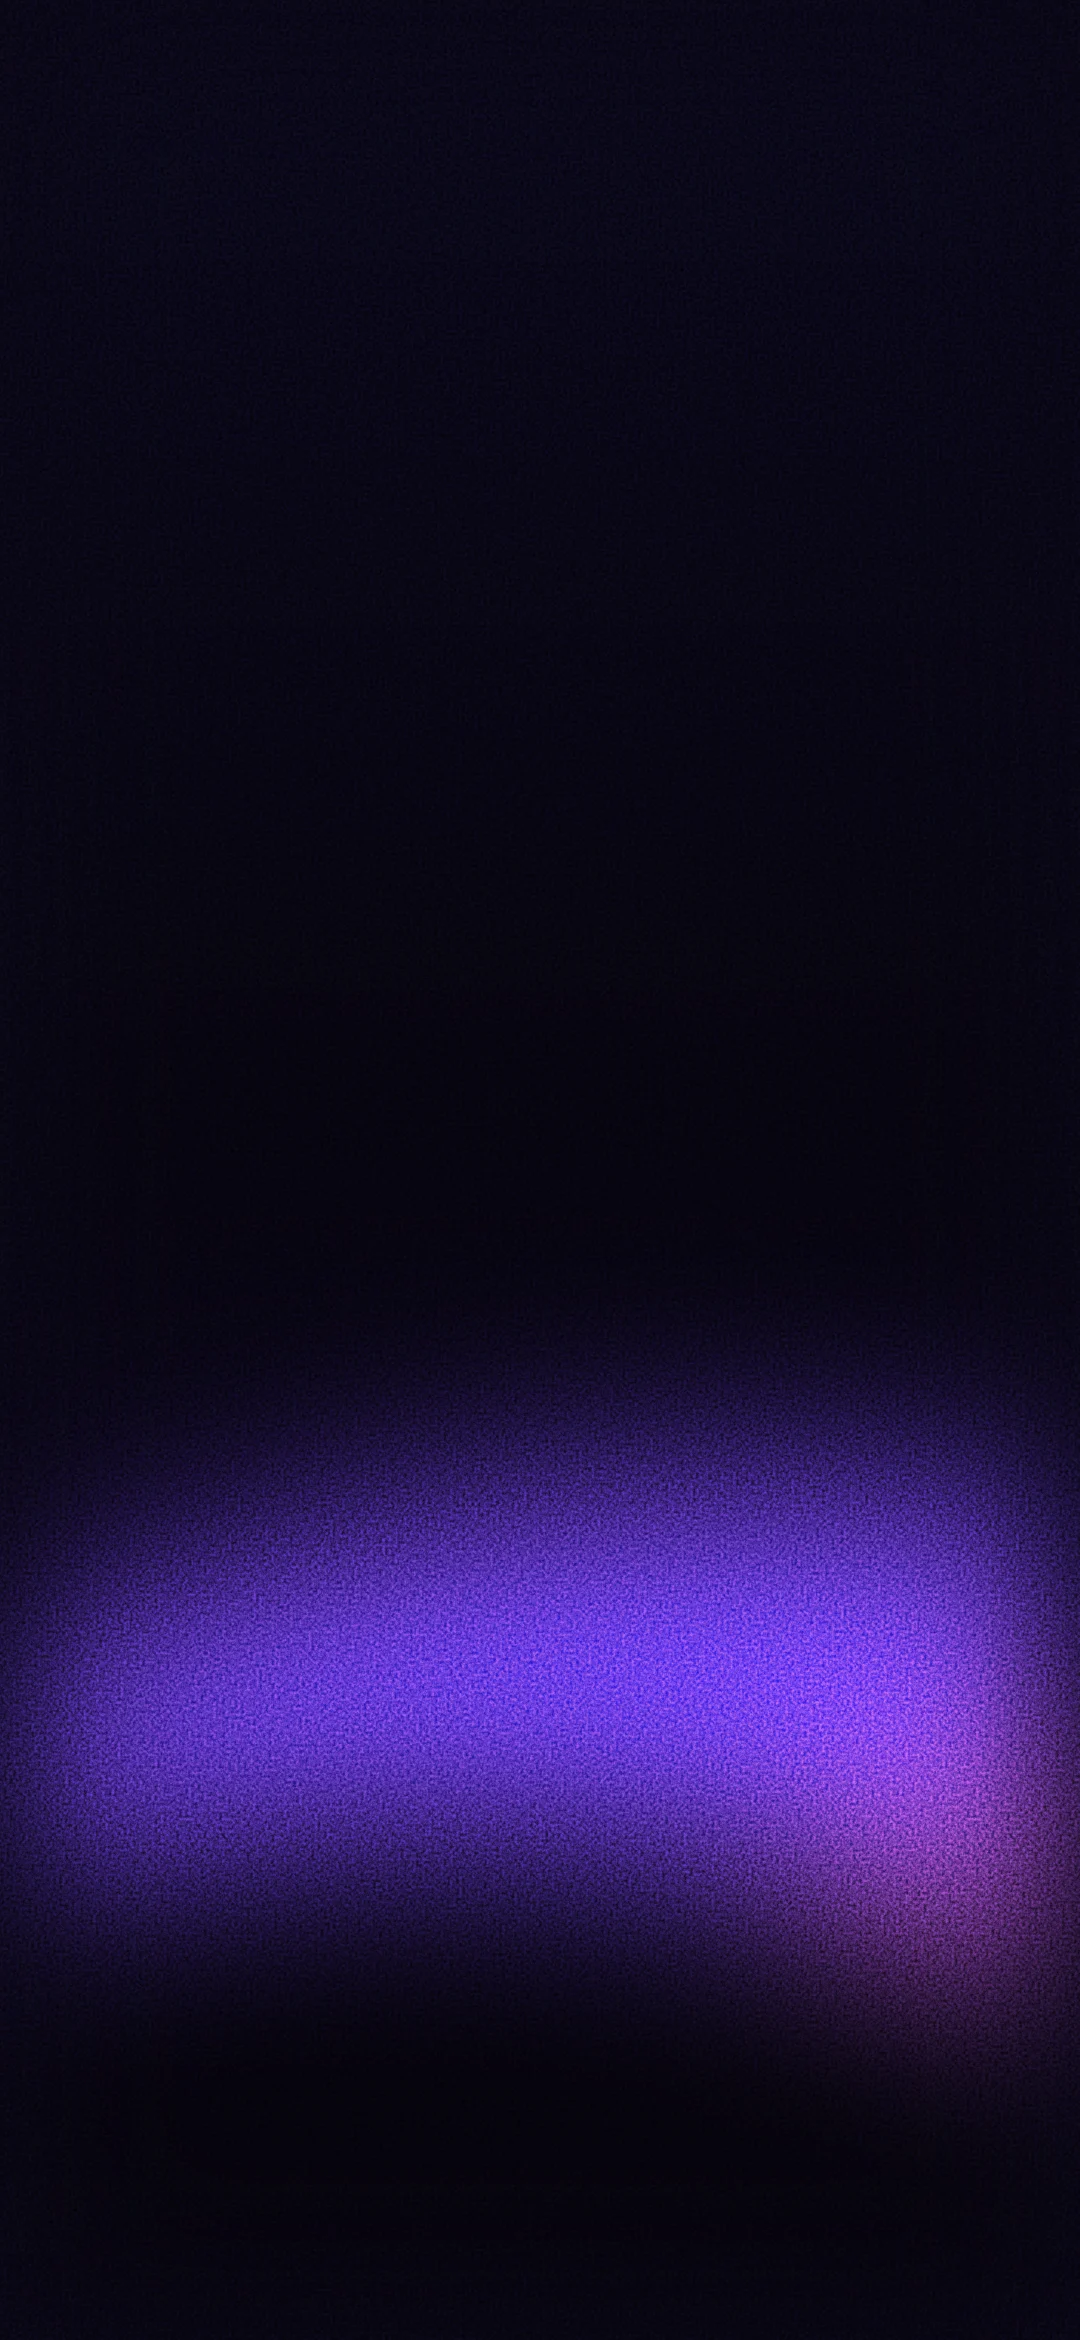
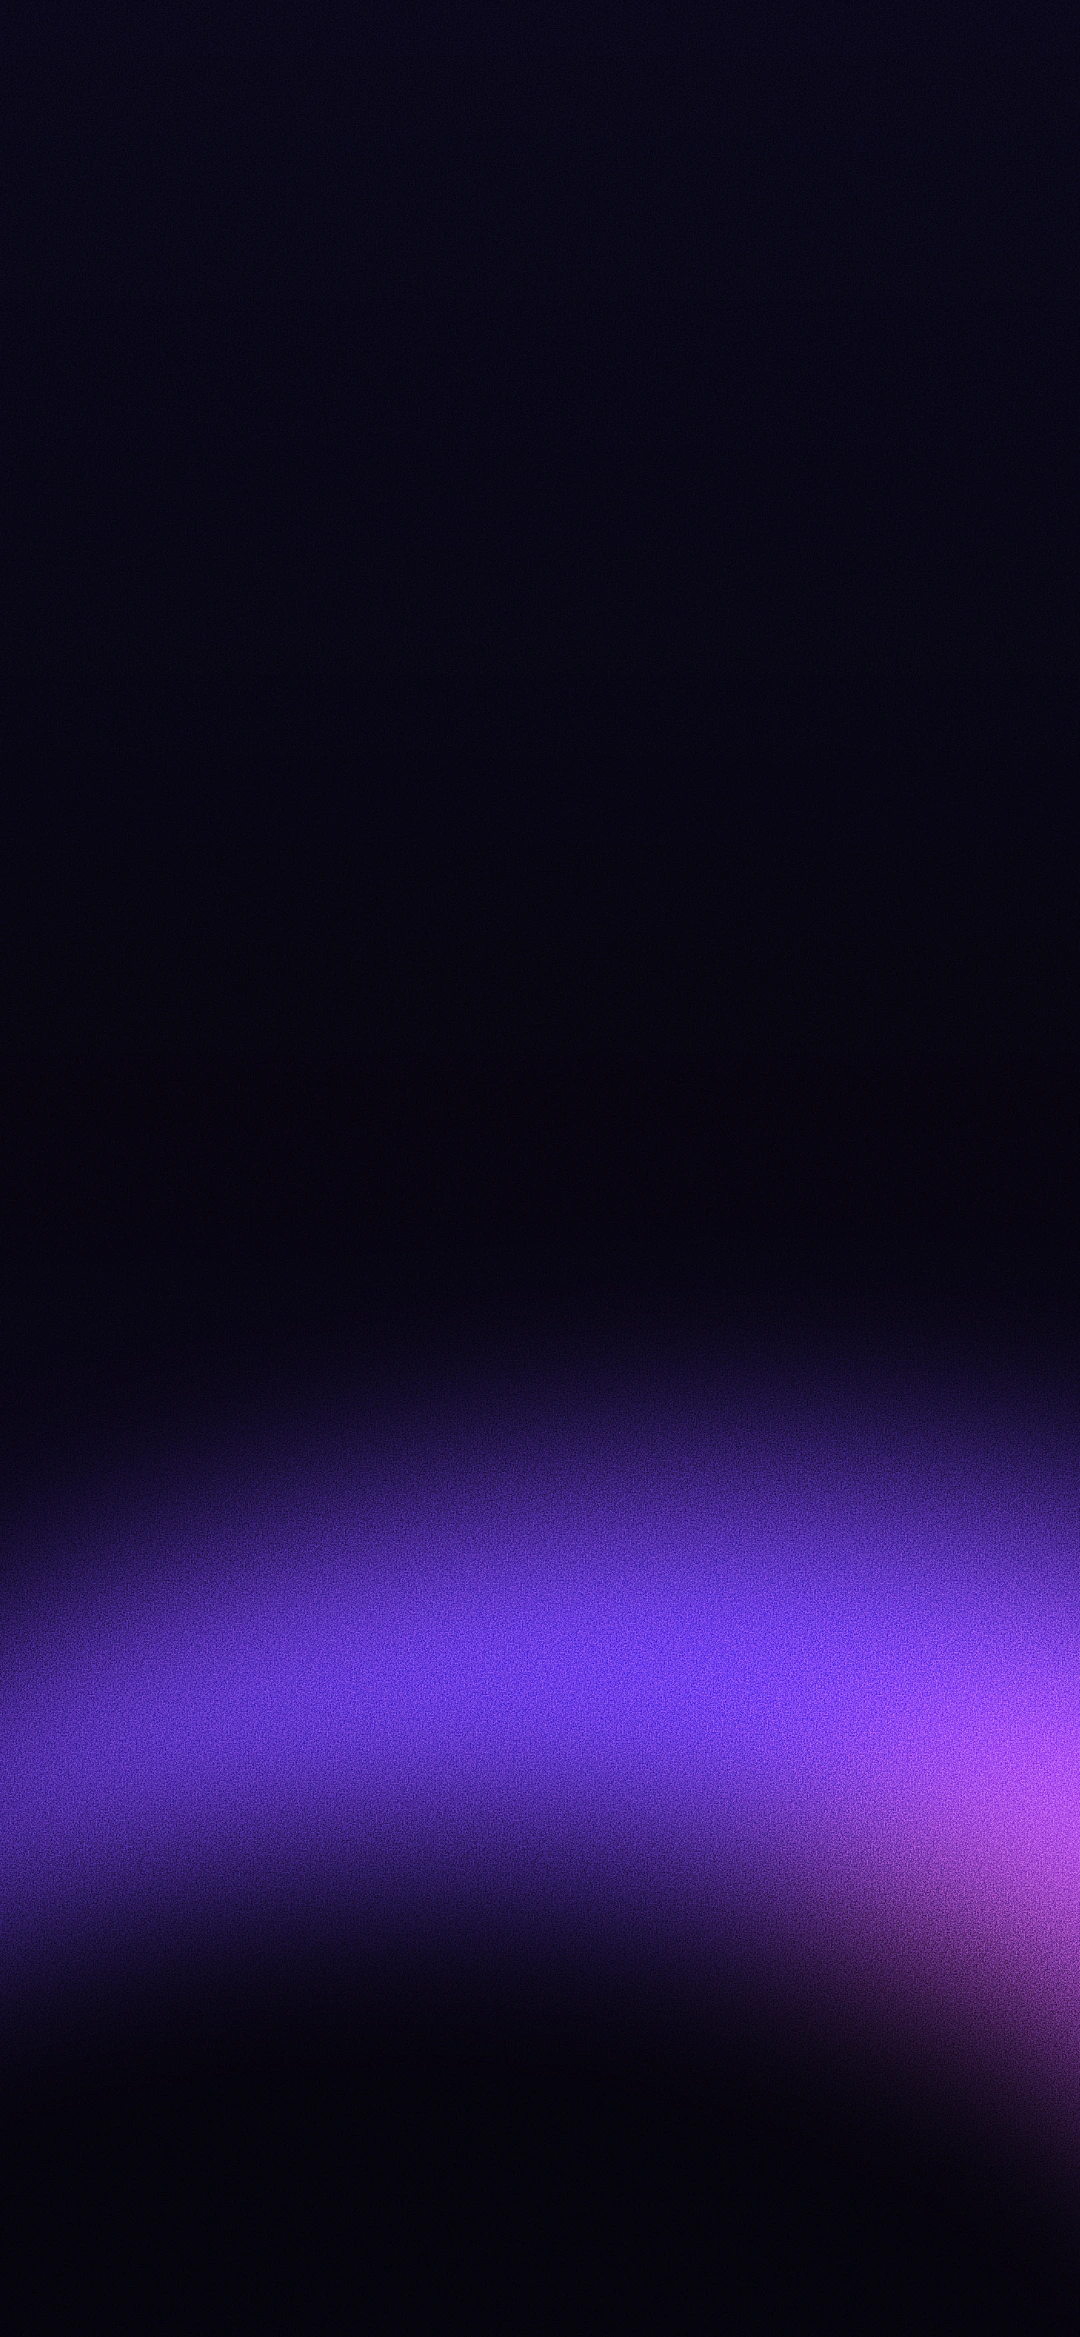
Nébula : fonds rendus par le moteur des planches (Chromium) avec un grain fin, barre floutée claire, liaison expliquée dans l'onglet Nous (étapes, Scanner / Montrer mon code, demande reçue), enregistrement de la boîte sérialisé (403 au démarrage)

Changed region(s): [[0.0, 0.5935, 1.0, 0.9371]]

diff --git a/src/screens/NousScreen.tsx b/src/screens/NousScreen.tsx
@@ -4,7 +4,8 @@ import Reanimated, { useSharedValue } from 'react-native-reanimated';
 import Svg, { Path } from 'react-native-svg';
 
 import { chat } from '../chat/manager';
-import { describeMessage, getContactProfile, getLastMessage, getMediaMessages, getUnreadCounts, Message } from '../chat/database';
+import { describeMessage, getContactProfile, getLastMessage, getMediaMessages, getPendingRequests, getUnreadCounts, Message, PairingRequest } from '../chat/database';
+import type { PairMode } from '../components/PairSheet';
 import { useMediaPreview } from '../chat/media';
 import { useBottomBarSpace } from '../components/BottomBar';
 import { Lily } from '../components/Lily';
@@ -28,7 +29,8 @@ type Props = {
   onMedia: (contact: Contact) => void;
   onPense: (contact: Contact) => void;
   onDates: () => void;
-  onPair: () => void;
+  onPair: (mode: PairMode) => void;
+  onRequests: () => void;
 };
 
 const AVATAR = 72;
@@ -62,21 +64,50 @@ function MediaTile({ message, onPress, index }: { message: Message; onPress: () 
   );
 }
 
-// Pas encore liés : l'invitation à scanner son QR code, avec le lys et le bouton Grain.
-function PairInvite({ pending, onPair }: { pending: boolean; onPair: () => void }) {
+// Pas encore liés : comment faire, en trois étapes, et les deux boutons de la feuille QR (Scanner son
+// code en Grain, Montrer mon code en Fumé). Une demande reçue s'affiche en haut, prête à être acceptée.
+function PairInvite({ pending, request, onPair, onRequests }: { pending: boolean; request: PairingRequest | null; onPair: (mode: PairMode) => void; onRequests: () => void }) {
   const styles = useStyles();
   const colors = useColors();
+  const steps = [t('nous.etape1'), t('nous.etape2'), t('nous.etape3')];
   return (
     <View style={styles.invite}>
+      {request && (
+        <Reanimated.View entering={enterUp(10, 300)} style={styles.requestWrap}>
+          <Card style={styles.request}>
+            <Text style={styles.requestTitle}>{t('nous.demandeRecue', { nom: request.name || t('app.contact') })}</Text>
+            <Text style={styles.requestText}>{t('nous.demandeAide')}</Text>
+            <GrainButton label={t('nous.voirDemande')} onPress={onRequests} />
+          </Card>
+        </Reanimated.View>
+      )}
       <StaticLily size={64} color={colors.text} />
       <Text style={styles.inviteTitle}>{pending ? t('nous.enAttente') : t('nous.lierTitre')}</Text>
-      <Text style={styles.inviteText}>{pending ? t('nous.enAttenteAide') : t('nous.lierAide')}</Text>
-      {!pending && <GrainButton label={t('nous.lier')} onPress={onPair} style={styles.inviteButton} />}
+      {pending ? (
+        <Text style={styles.inviteText}>{t('nous.enAttenteAide')}</Text>
+      ) : (
+        <>
+          <View style={styles.steps}>
+            {steps.map((step, index) => (
+              <Reanimated.View key={step} entering={enterUp(8, 260, 120 + index * 60)} style={styles.step}>
+                <View style={styles.stepNumber}>
+                  <Text style={styles.stepNumberText}>{index + 1}</Text>
+                </View>
+                <Text style={styles.stepText}>{step}</Text>
+              </Reanimated.View>
+            ))}
+          </View>
+          <View style={styles.inviteButtons}>
+            <GrainButton label={t('nous.scanner')} onPress={() => onPair('scan')} />
+            <GrainButton label={t('nous.montrer')} variant="smoke" onPress={() => onPair('code')} />
+          </View>
+        </>
+      )}
     </View>
   );
 }
 
-export function NousScreen({ contacts, onOpenChat, onProfile, onMedia, onPense, onDates, onPair }: Props) {
+export function NousScreen({ contacts, onOpenChat, onProfile, onMedia, onPense, onDates, onPair, onRequests }: Props) {
   const styles = useStyles();
   const colors = useColors();
   const { top } = useInsets();
@@ -105,7 +136,7 @@ export function NousScreen({ contacts, onOpenChat, onProfile, onMedia, onPense, 
       <View style={styles.screen}>
         <Backdrop kind="horizon" />
         {header}
-        <PairInvite pending={!!partner?.pending} onPair={onPair} />
+        <PairInvite pending={!!partner?.pending} request={getPendingRequests()[0] ?? null} onPair={onPair} onRequests={onRequests} />
       </View>
     );
   }
@@ -378,9 +409,65 @@ const useStyles = createStyles((colors) => ({
     flex: 1,
     alignItems: 'center',
     justifyContent: 'center',
-    paddingHorizontal: 32,
+    paddingHorizontal: 28,
     gap: 12,
     paddingBottom: 120,
+  },
+  requestWrap: {
+    alignSelf: 'stretch',
+    marginBottom: 12,
+  },
+  request: {
+    padding: 16,
+    gap: 8,
+  },
+  requestTitle: {
+    fontSize: 16,
+    fontWeight: '600',
+    color: colors.text,
+  },
+  requestText: {
+    fontSize: 13,
+    lineHeight: 19,
+    color: fixed.cardTextSoft,
+    marginBottom: 4,
+  },
+  steps: {
+    alignSelf: 'stretch',
+    gap: 10,
+    marginTop: 8,
+  },
+  step: {
+    flexDirection: 'row',
+    alignItems: 'center',
+    gap: 12,
+    padding: 12,
+    borderRadius: 16,
+    backgroundColor: fixed.card,
+  },
+  stepNumber: {
+    width: 28,
+    height: 28,
+    borderRadius: 14,
+    backgroundColor: colors.signature,
+    alignItems: 'center',
+    justifyContent: 'center',
+  },
+  stepNumberText: {
+    fontSize: 13,
+    fontWeight: '700',
+    color: colors.onSignature,
+  },
+  stepText: {
+    flex: 1,
+    fontSize: 14,
+    lineHeight: 20,
+    color: colors.text,
+  },
+  inviteButtons: {
+    alignSelf: 'stretch',
+    gap: 10,
+    marginTop: 12,
   },
   inviteTitle: {
     marginTop: 12,

diff --git a/src/network/tokens.ts b/src/network/tokens.ts
@@ -1,4 +1,5 @@
 import { getAuth, getIdToken, signInAnonymously } from '@react-native-firebase/auth';
+
 import { get, getDatabase, ref, remove, serverTimestamp, set } from '@react-native-firebase/database';
 
 import { getSetting, setSetting } from '../chat/database';
@@ -20,9 +21,20 @@ const REPUBLISH_MS = 30 * 24 * 3600000;
 
 type Inbox = { inboxId: string; uid: string; serverKey: string };
 
+// Une seule connexion anonyme à la fois : au démarrage, plusieurs tâches la demandent ensemble. Chacune
+// créait son propre compte, et le jeton envoyé (celui du compte courant) ne correspondait plus à l'uid de
+// la preuve : le serveur répondait 403.
+type FirebaseUser = NonNullable<ReturnType<typeof getAuth>['currentUser']>;
+let signingIn: Promise<FirebaseUser> | null = null;
 export async function currentUser() {
   const auth = getAuth();
-  return auth.currentUser ?? (await signInAnonymously(auth)).user;
+  if (auth.currentUser) return auth.currentUser;
+  signingIn ??= signInAnonymously(auth)
+    .then((result) => result.user)
+    .finally(() => {
+      signingIn = null;
+    });
+  return signingIn;
 }
 
 function readJson<T>(key: string): T | null {
@@ -35,7 +47,16 @@ function readJson<T>(key: string): T | null {
 }
 
 // La boîte est enregistrée auprès du serveur une fois par compte Firebase (refaite après une réinstallation).
-export async function registerInbox(identity: Identity): Promise<string> {
+// Un seul enregistrement à la fois ; les appels simultanés attendent le même résultat.
+let registering: Promise<string> | null = null;
+export function registerInbox(identity: Identity): Promise<string> {
+  registering ??= doRegisterInbox(identity).finally(() => {
+    registering = null;
+  });
+  return registering;
+}
+
+async function doRegisterInbox(identity: Identity): Promise<string> {
   const user = await currentUser();
   const saved = readJson<Inbox>(INBOX_SETTING);
   if (saved && saved.uid === user.uid) return saved.inboxId;
@@ -45,7 +66,8 @@ export async function registerInbox(identity: Identity): Promise<string> {
   const at = Date.now();
   const response = await fetch(url, {
     method: 'POST',
-    headers: { Authorization: `Bearer ${await getIdToken(user)}`, 'Content-Type': 'application/json' },
+    // Le jeton du compte de la preuve, demandé à ce compte-là.
+    headers: { Authorization: `Bearer ${await getIdToken(user, true)}`, 'Content-Type': 'application/json' },
     body: JSON.stringify({ v: 1, publicKey: identity.publicKey, at, proof: inboxProof(identity, serverKey, user.uid, at) }),
   });
   if (!response.ok) throw new Error(`Enregistrement de la boîte refusé (${response.status})`);

diff --git a/App.tsx b/App.tsx
@@ -23,7 +23,7 @@ import { BottomBar, Tab } from './src/components/BottomBar';
 import { DialogHost, showDialog } from './src/components/dialog';
 import { ErrorBoundary, ErrorScreen } from './src/components/ErrorBoundary';
 import { deriveSharedSecret, getVerificationCode, Identity, PairingLink, parsePairingLink } from './src/crypto/pairing';
-import { PairSheet } from './src/components/PairSheet';
+import { PairSheet, type PairMode } from './src/components/PairSheet';
 import { CameraScreen } from './src/screens/CameraScreen';
 import { ChatScreen } from './src/screens/chat/ChatScreen';
 import { isSelf } from './src/chat/self';
@@ -218,6 +218,8 @@ function App() {
   const [onboarding, setOnboarding] = useState<{ mode: 'full' | 'permissions'; step: OnboardingStep } | null>(null);
   // La feuille « QR code » (mon code, scanner), ouverte depuis l'accueil.
   const [pairOpen, setPairOpen] = useState(false);
+  // Nébula : la feuille QR s'ouvre sur « Mon code » ou directement sur le scanner.
+  const [pairMode, setPairMode] = useState<PairMode>('code');
 
   useEffect(() => {
     // La base est ouverte et migrée avant tout : un échec affiche une erreur au lieu de planter en boucle.
@@ -725,7 +727,11 @@ function App() {
     return (
       <NousScreen
         contacts={contacts}
-        onPair={() => setPairOpen(true)}
+        onPair={(mode) => {
+          setPairMode(mode);
+          setPairOpen(true);
+        }}
+        onRequests={() => setRoute({ name: 'requests' })}
         onOpenChat={(contact) => setRoute({ name: 'chat', publicKey: contact.publicKey })}
         onProfile={(contact) => setRoute({ name: 'contact', publicKey: contact.publicKey })}
         onMedia={(contact) => setRoute({ name: 'contact', publicKey: contact.publicKey, tab: 'media' })}
@@ -883,6 +889,7 @@ function App() {
       </BlurTargetView>
       {identity && !error && (
         <PairSheet
+          initialMode={pairMode}
           visible={pairOpen}
           publicKey={identity.publicKey}
           onClose={() => setPairOpen(false)}

diff --git a/src/components/PairSheet.tsx b/src/components/PairSheet.tsx
@@ -18,7 +18,8 @@ import { SegmentedControl } from './SegmentedControl';
 import { Sheet } from './Sheet';
 import { showDialog } from './dialog';
 
-type Mode = 'code' | 'scan';
+export type PairMode = 'code' | 'scan';
+type Mode = PairMode;
 
 const QR_SIZE = 210;
 const DRAW_MS = 600;
@@ -36,13 +37,14 @@ const codeIn: EntryExitAnimationFunction = () => {
 // La feuille « QR code » : « Mon code » et « Scanner » dans la même feuille, avec un sélecteur dont la
 // pastille glisse. Le contenu du code reste pear://pair?k=<clé>&n=<pseudo>. Un code lu ferme la feuille
 // et ouvre « Nouveau contact » (onKeyReceived).
-export function PairSheet({ visible, publicKey, onClose, onKeyReceived }: { visible: boolean; publicKey: string; onClose: () => void; onKeyReceived: (link: PairingLink) => void }) {
+// initialMode : ouvrir directement sur le scanner (bouton « Scanner son code » de Nébula).
+export function PairSheet({ visible, publicKey, onClose, onKeyReceived, initialMode = 'code' }: { visible: boolean; publicKey: string; onClose: () => void; onKeyReceived: (link: PairingLink) => void; initialMode?: Mode }) {
   if (!visible) return null;
-  return <Pair publicKey={publicKey} onClose={onClose} onKeyReceived={onKeyReceived} />;
+  return <Pair publicKey={publicKey} onClose={onClose} onKeyReceived={onKeyReceived} initialMode={initialMode} />;
 }
 
-function Pair({ publicKey, onClose, onKeyReceived }: { publicKey: string; onClose: () => void; onKeyReceived: (link: PairingLink) => void }) {
-  const [mode, setMode] = useState<Mode>('code');
+function Pair({ publicKey, onClose, onKeyReceived, initialMode }: { publicKey: string; onClose: () => void; onKeyReceived: (link: PairingLink) => void; initialMode: Mode }) {
+  const [mode, setMode] = useState<Mode>(initialMode);
   const { height } = useWindowDimensions();
   const options = [
     { value: 'code' as const, label: t('qr.monCode') },

diff --git a/src/components/BottomBar.tsx b/src/components/BottomBar.tsx
@@ -25,7 +25,8 @@ const SLIDE_MS = 300;
 const SLIDE_STEP = SLOT_WIDTH + SLOT_GAP;
 // Gros flou façon One UI. Sur Android, expo-blur tire de `intensity` à la fois le rayon (intensité ÷
 // réduction, en pixels) et un voile gris (69 % d'opacité à 100) : à 100, le voile cachait le flou.
-// Intensité basse = voile léger (≈ 17 %), réduction minuscule = rayon énorme (≈ 160 px).
+// Intensité basse = voile léger, réduction minuscule = rayon énorme (≈ 160 px). Teinte claire : un voile
+// blanc d'environ 10 %, le verre dépoli lumineux de One UI (la teinte sombre donnait une pastille grise).
 const BLUR_INTENSITY = 24;
 const BLUR_REDUCTION = 0.15;
 
@@ -148,7 +149,7 @@ export function BottomBar({ active, onChange, blurTarget }: { active: Tab; onCha
             blurMethod="dimezisBlurViewSdk31Plus"
             intensity={BLUR_INTENSITY}
             blurReductionFactor={BLUR_REDUCTION}
-            tint="dark"
+            tint="default"
             style={StyleSheet.absoluteFill}
           />
         )}

diff --git a/src/i18n/fr.ts b/src/i18n/fr.ts
@@ -977,6 +977,14 @@ export const fr = {
     dejaSorties: 'Les nouveautés déjà sorties',
   },
   nous: {
+    etape1: 'Sur son téléphone, elle ouvre Nébula et touche « Montrer mon code ».',
+    etape2: 'Sur le tien, touche « Scanner son code » et vise son QR code.',
+    etape3: 'Elle reçoit ta demande et l’accepte : vous êtes liés.',
+    scanner: 'Scanner son code',
+    montrer: 'Montrer mon code',
+    demandeRecue: '{nom} veut se lier à toi',
+    demandeAide: 'Vérifie que c’est bien elle, puis accepte : Nébula sera à vous deux.',
+    voirDemande: 'Voir la demande',
     dejaLies: 'Vous êtes déjà liés',
     dejaLiesAide: 'Nébula est réservée à deux : ce téléphone est lié à {nom}.',
     titre: 'Nous',

diff --git a/src/i18n/en.ts b/src/i18n/en.ts
@@ -978,6 +978,14 @@ export const en: Dictionary = {
     dejaSorties: 'Features already released',
   },
   nous: {
+    etape1: 'On their phone, they open Nébula and tap “Show my code”.',
+    etape2: 'On yours, tap “Scan their code” and aim at their QR code.',
+    etape3: 'They get your request and accept it: you are linked.',
+    scanner: 'Scan their code',
+    montrer: 'Show my code',
+    demandeRecue: '{nom} wants to link with you',
+    demandeAide: 'Check it is really them, then accept: Nébula will be yours.',
+    voirDemande: 'See the request',
     dejaLies: 'You are already linked',
     dejaLiesAide: 'Nébula is for two: this phone is linked to {nom}.',
     titre: 'Us',

diff --git a/src/theme.ts b/src/theme.ts
@@ -121,7 +121,7 @@ export const fixed = {
   scene: { sky: '#7FBDF0', sun: '#FFC93C', cloud: '#FFFFFF', hill: '#7CC36A', hillDark: '#2E8B4A', house: '#E5483B' },
   filterStripBackground: '#1C1C1E',
   // Barre des onglets : voile violacé sur le flou, et son liseré.
-  tabBarTint: 'rgba(28, 22, 40, 0.22)',
+  tabBarTint: 'rgba(60, 40, 110, 0.16)',
   tabBarEdge: 'rgba(255, 255, 255, 0.08)',
   // Planches Elvira : surfaces posées sur les fonds à grain (sombres, un peu transparentes, sans flou).
   card: 'rgba(20, 16, 28, 0.78)',
